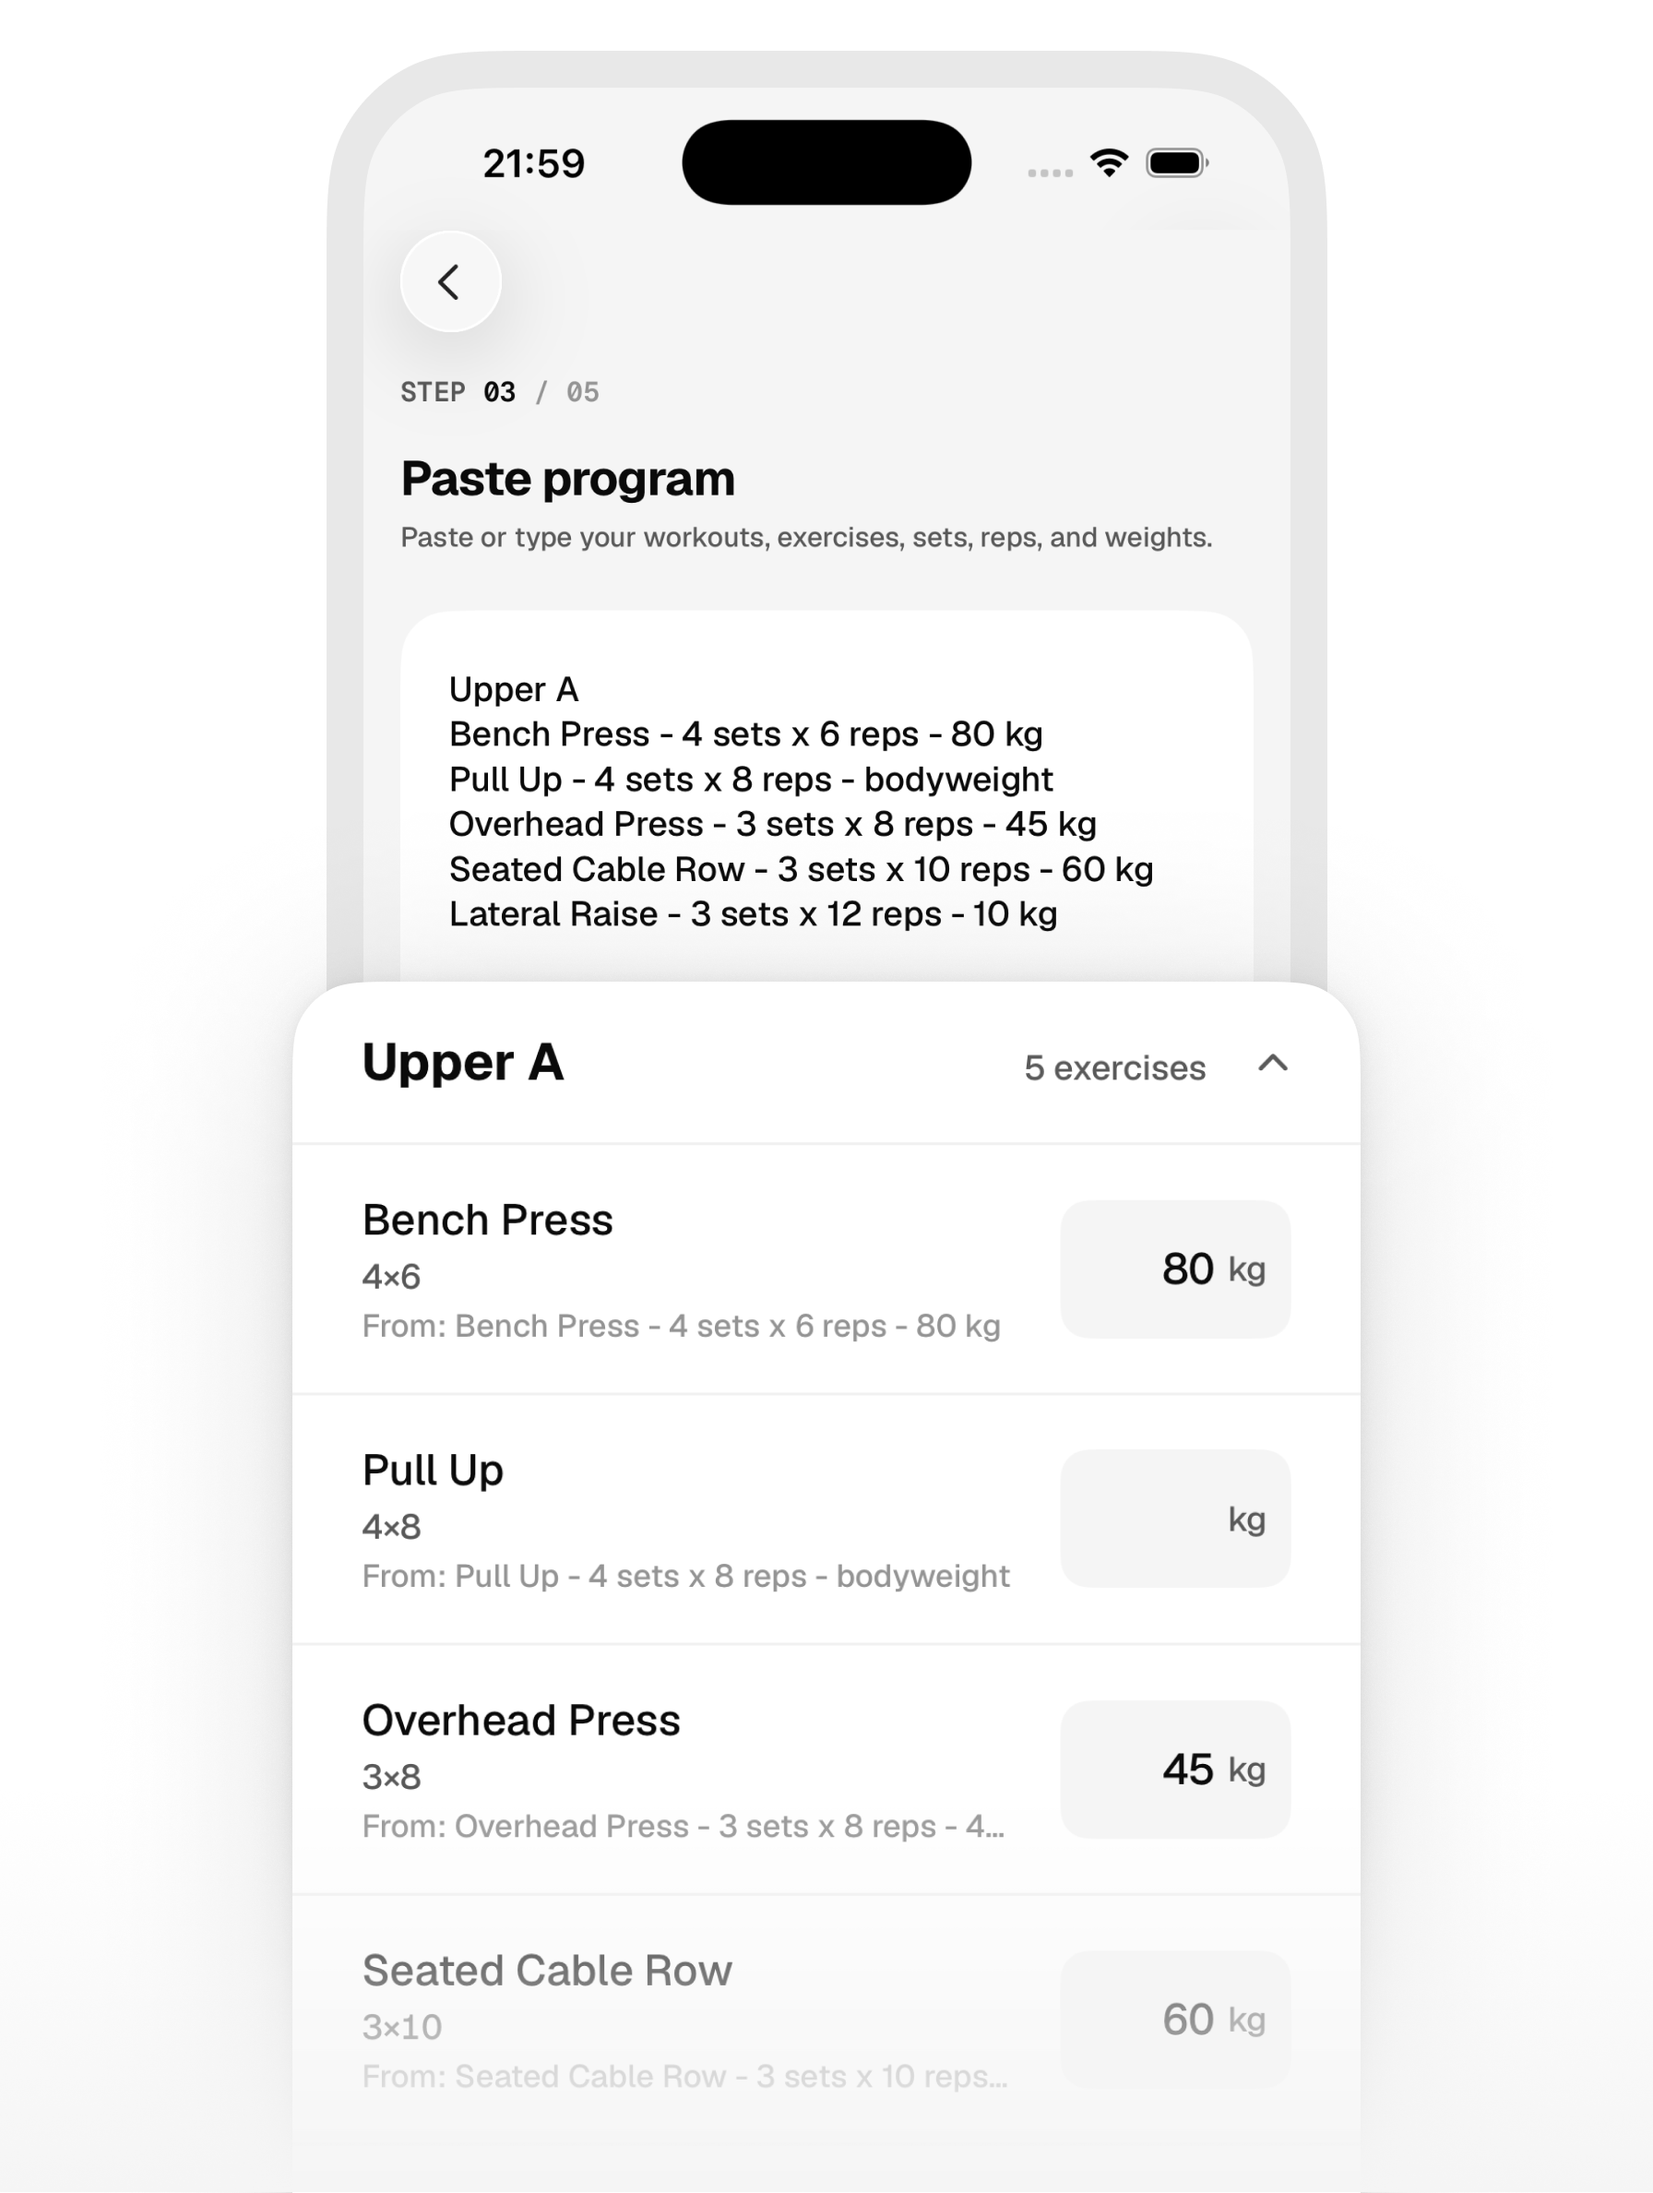
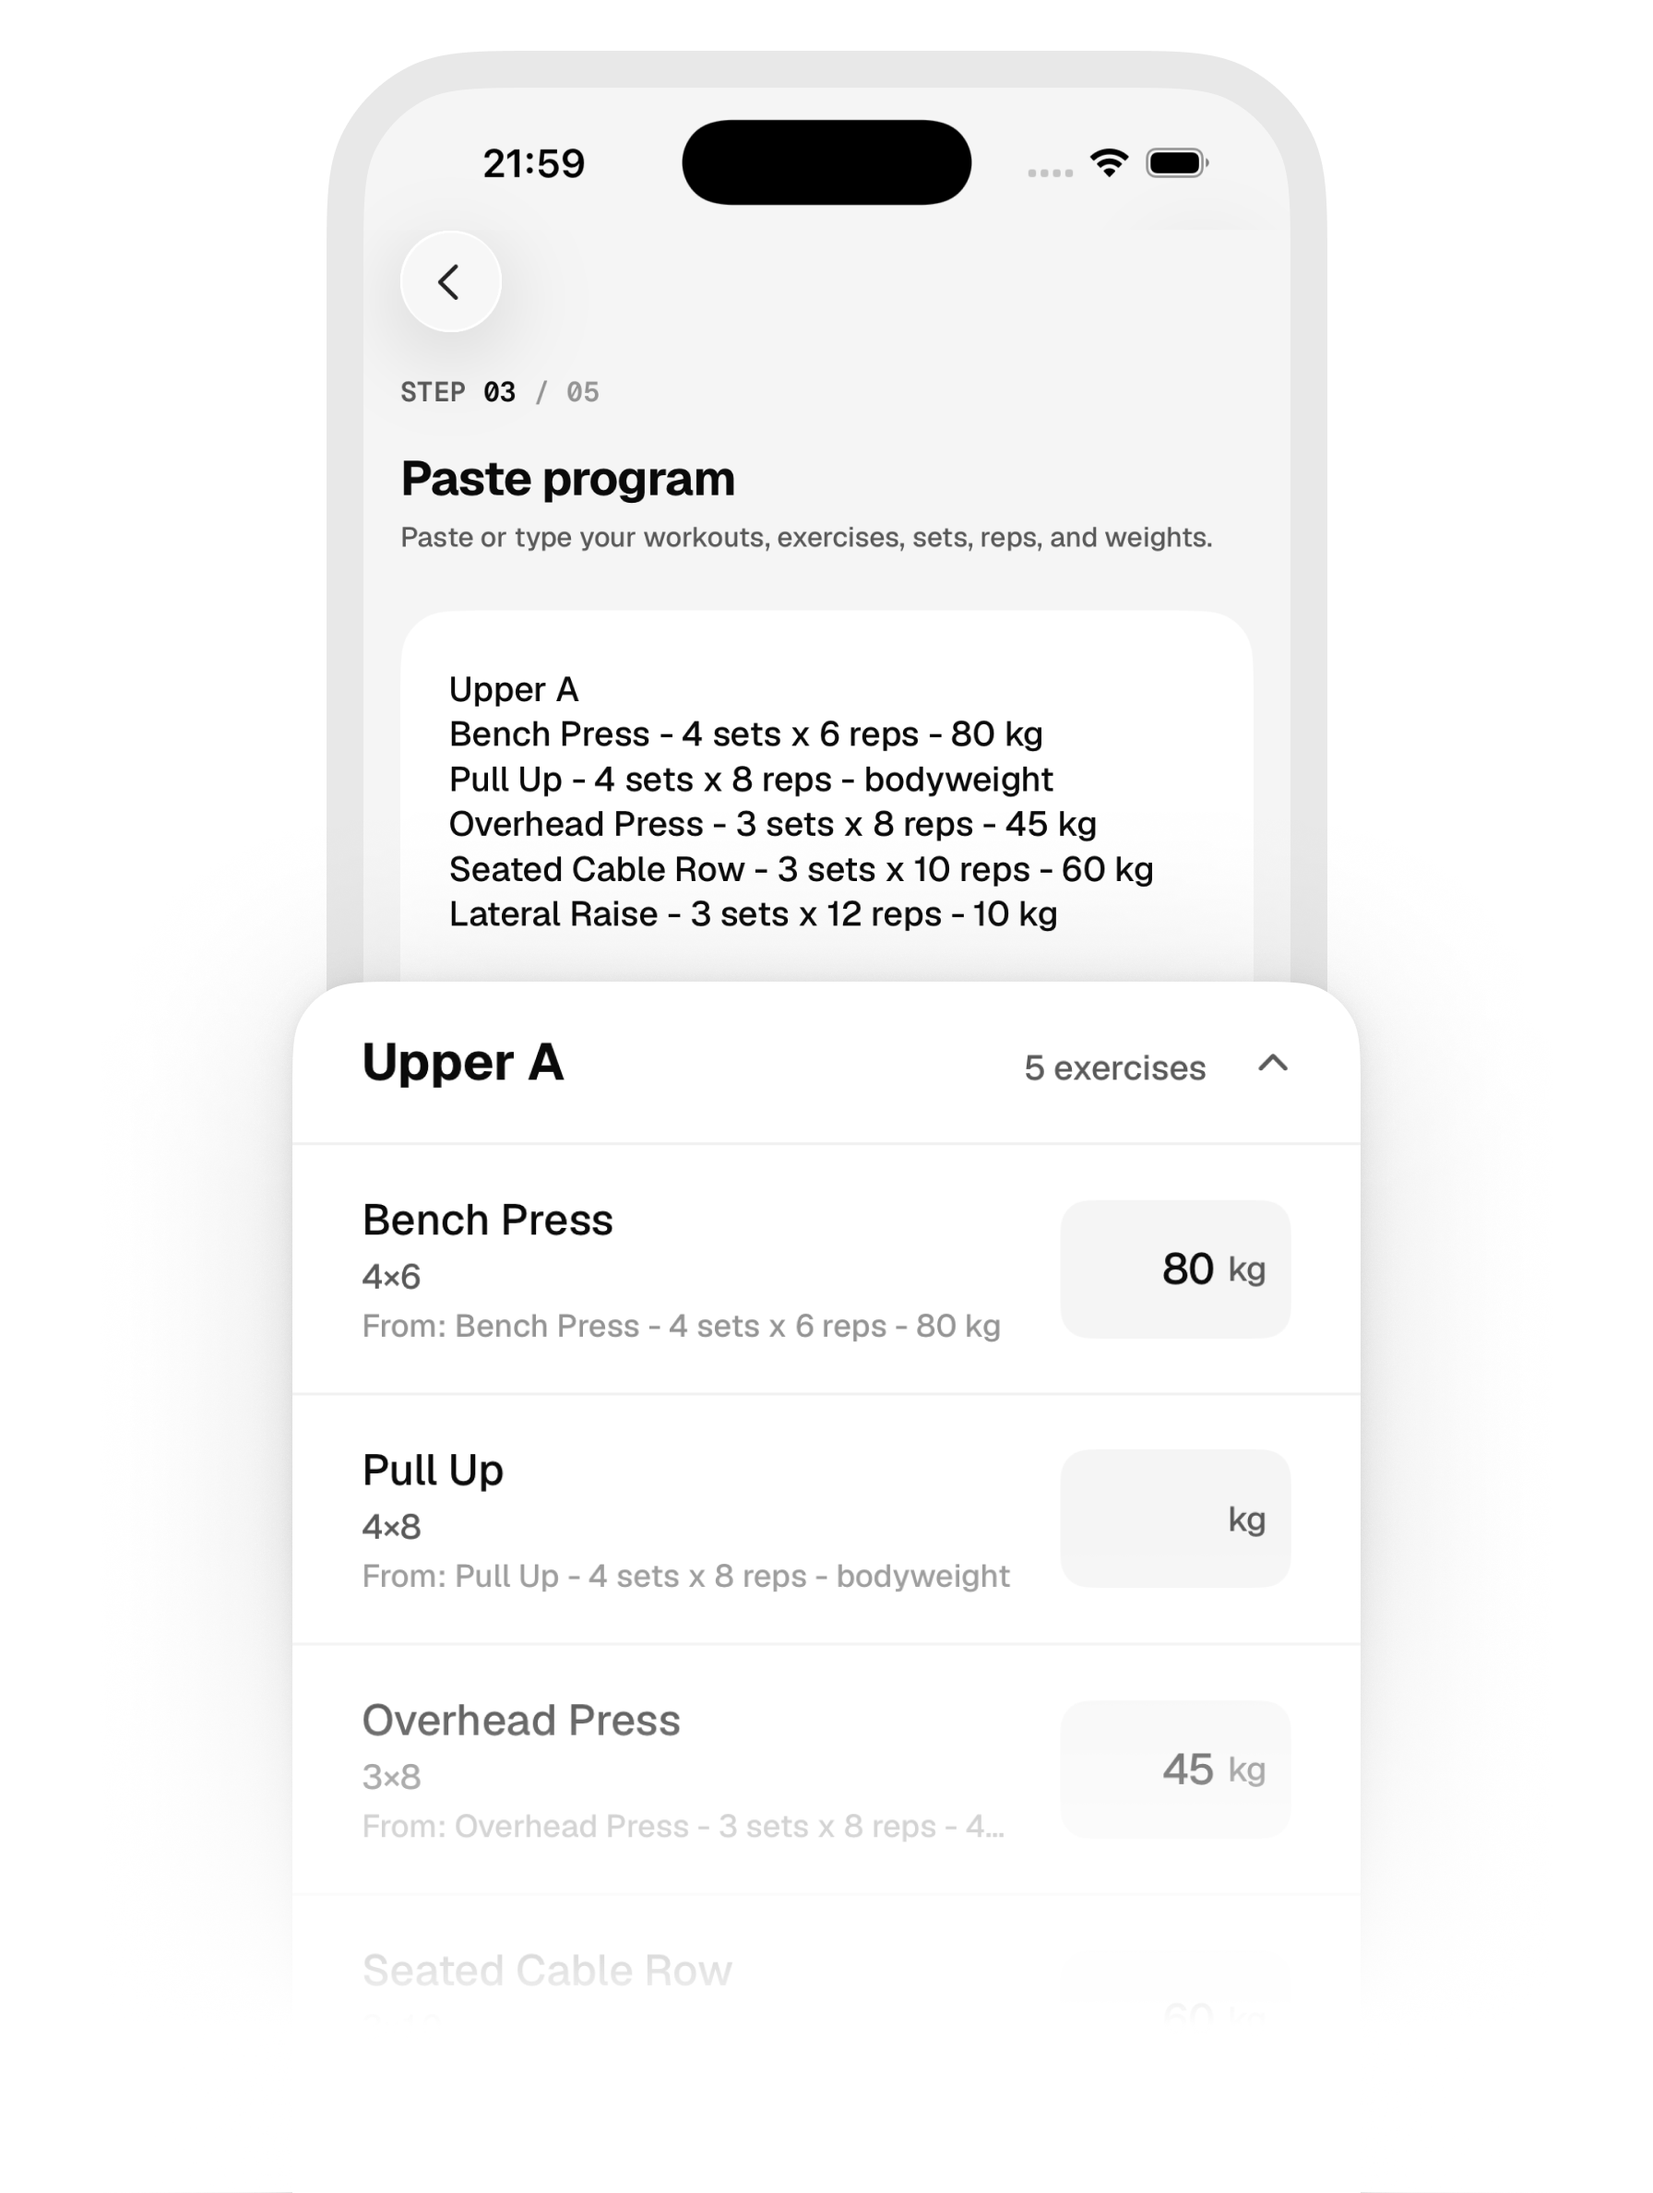
Refresh onboarding artwork and contain timer media

diff --git a/components/marketing/FeatureShowcase.tsx b/components/marketing/FeatureShowcase.tsx
@@ -13,6 +13,7 @@ type FeatureShowcaseItem = {
     height: number
     sizes?: string
     className?: string
+    clipOverflow?: boolean
   }
   children?: ReactNode
 }
@@ -61,7 +62,11 @@ export default function FeatureShowcase({
             </div>
 
             {item.mockup && (
-              <div className="mt-unit-lg px-unit-lg pb-unit-lg md:px-unit-xl md:pb-unit-xl">
+              <div
+                className={`mt-unit-lg px-unit-lg pb-unit-lg md:px-unit-xl md:pb-unit-xl ${
+                  item.mockup.clipOverflow ? "overflow-hidden" : ""
+                }`}
+              >
                 <div className="mx-auto max-w-[var(--marketing-feature-device-width)]">
                   <DeviceFrame
                     src={item.mockup.src}

diff --git a/app/(marketing)/page.tsx b/app/(marketing)/page.tsx
@@ -220,6 +220,7 @@ export default function LandingPage() {
                   sizes: "380px",
                   className:
                     "md:origin-top md:-translate-y-[73px] md:scale-[1.05]",
+                  clipOverflow: true,
                 },
               },
             ]}
